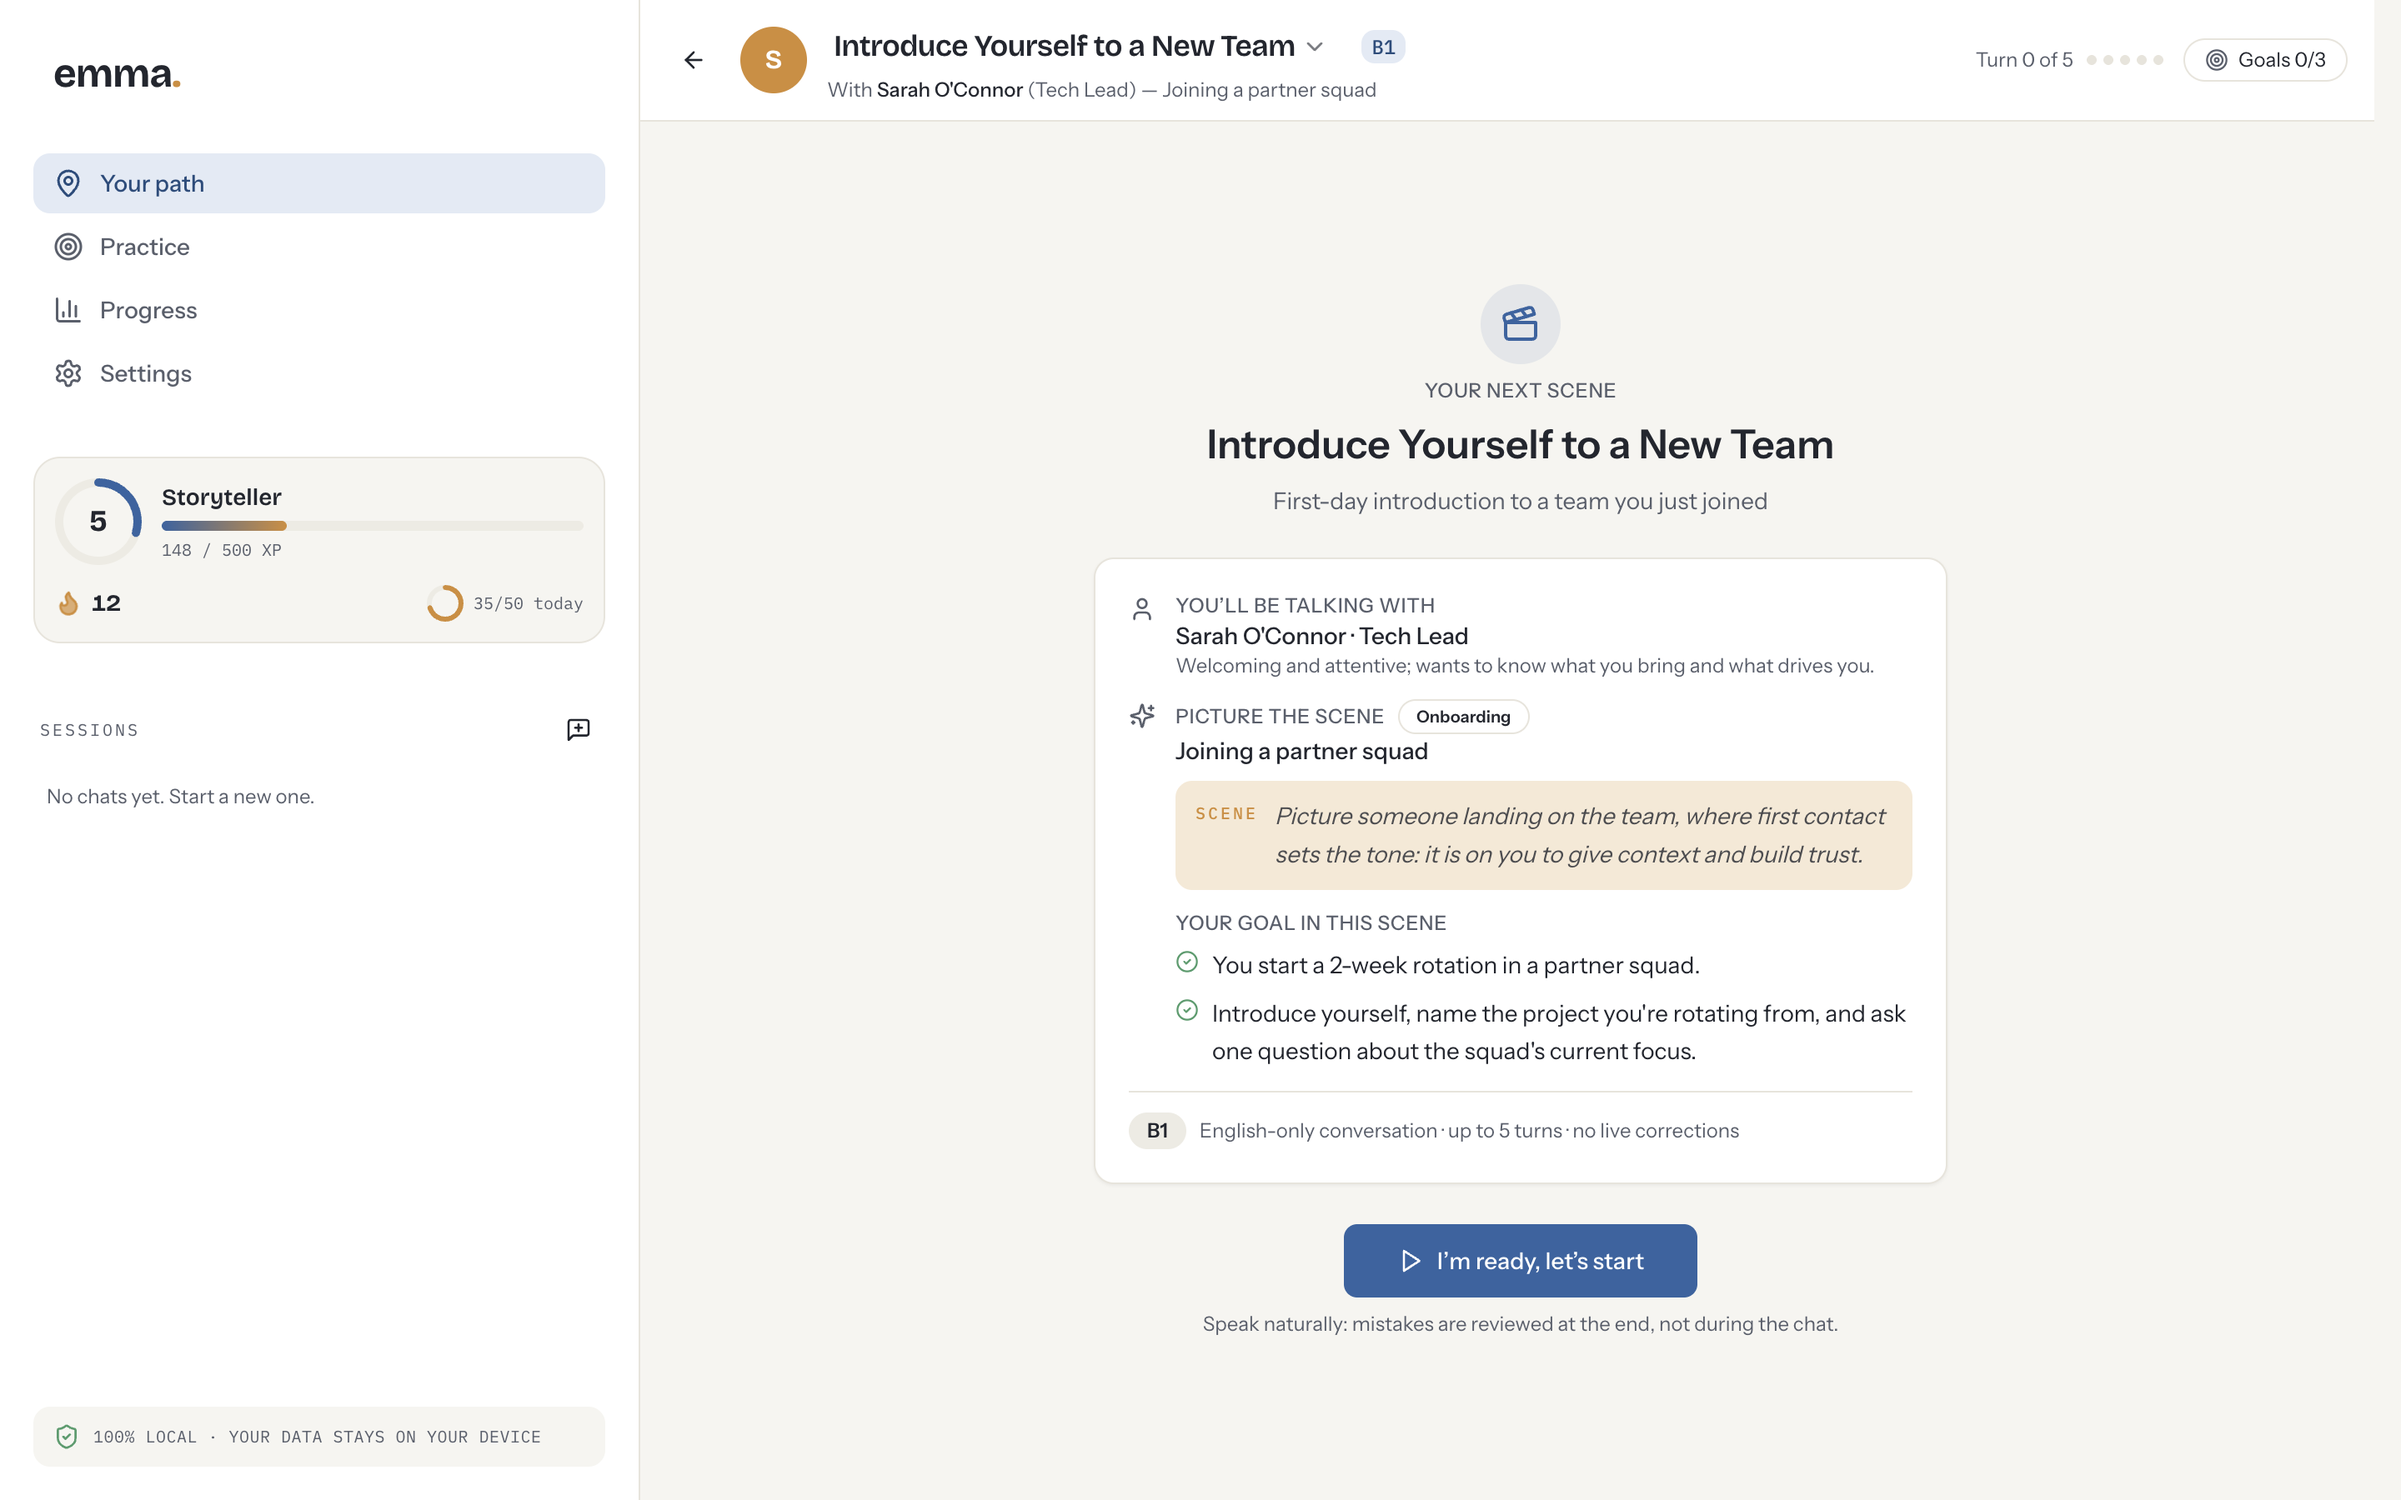
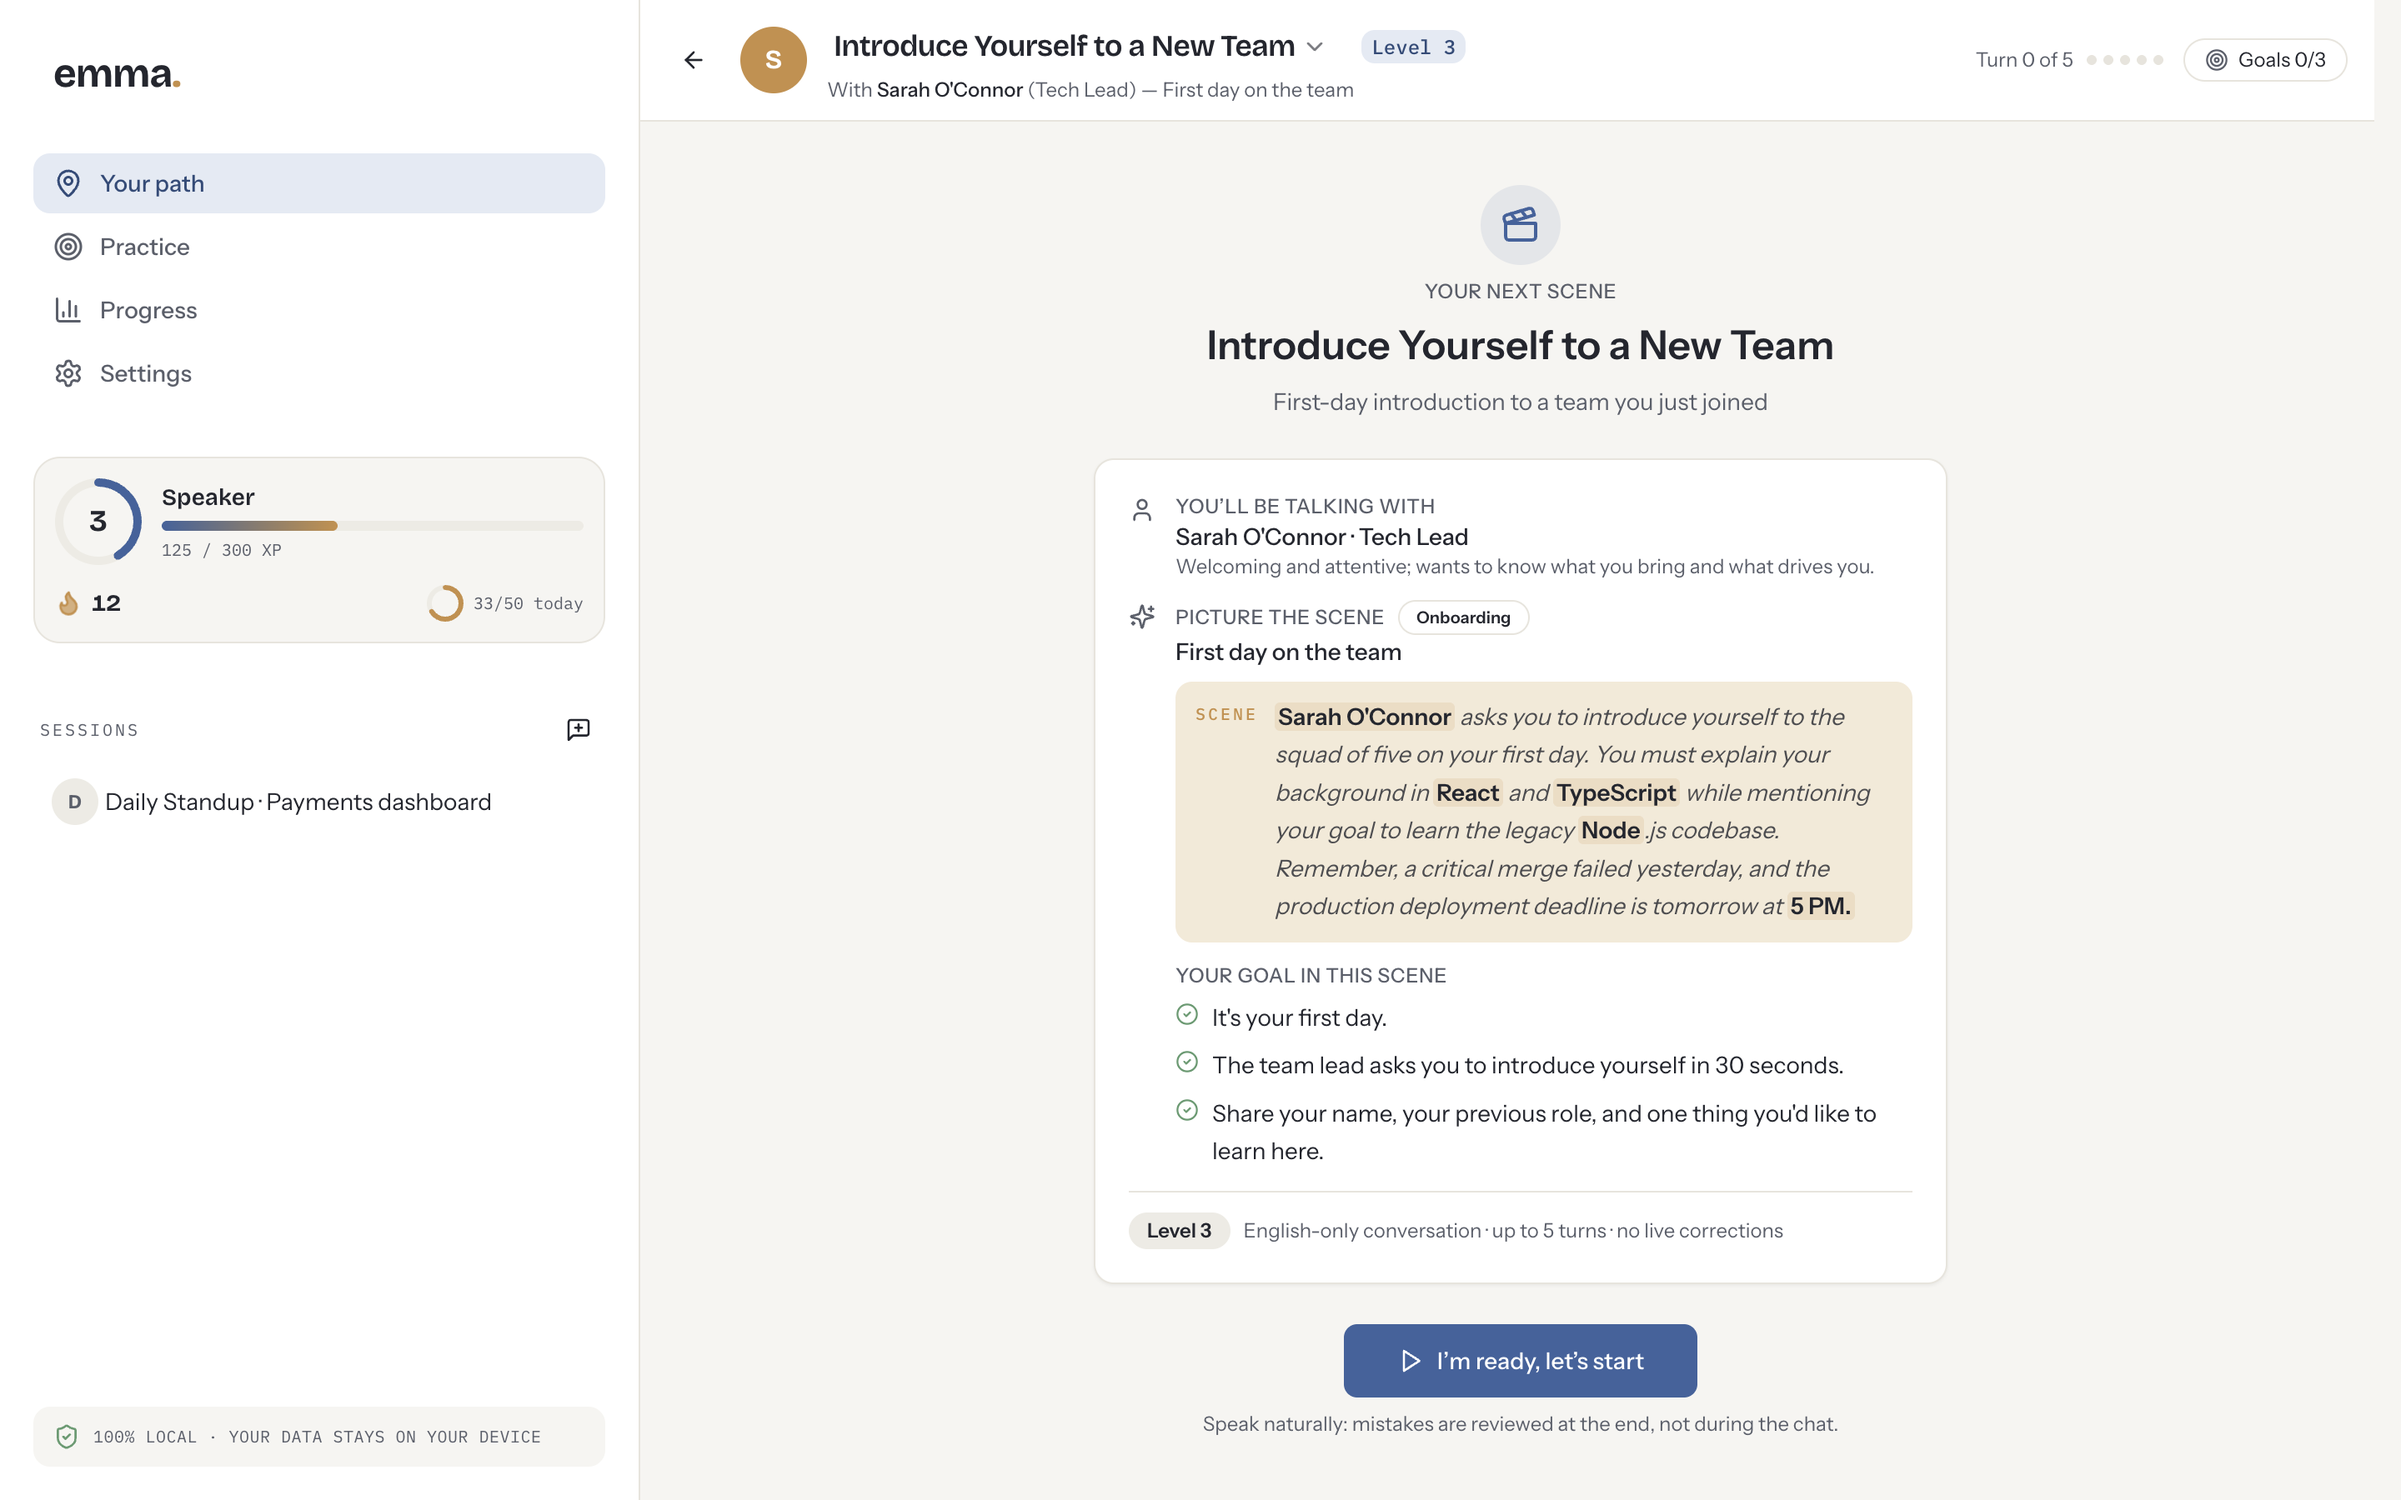
docs(site): vitrina al día con v0.9.1 — Level 1–5, frases clave y voz local
Capturas nuevas con datos de ejemplo ficticios (aprendiz «Ana»): ruta con
Level 1–5, escena con la franja SCENE resaltada, progreso, plan,
pronunciación y la muestra de voz en Protopersonas. Textos: voz neuronal
local sin nube, Teach me al lado del chat, juez de escena, cierre guiado y
la descarga del modelo de voz.

Closes #253

diff --git a/site/index.html b/site/index.html
@@ -49,7 +49,7 @@
     </div>
     <figure class="marco" style="margin:0">
       <div class="marco-cabecera"><i></i><i></i><i></i></div>
-      <img src="img/ruta.png" width="2880" height="1800" alt="Pantalla principal de EMMA: la ruta CEFR con escenas completadas, la siguiente y las bloqueadas; en la barra lateral, el nivel de jugador, la racha y la meta del día." />
+      <img src="img/ruta.png" width="2880" height="1800" alt="Pantalla principal de EMMA: la ruta del Level 3, entre Level 1 y Level 5, con cuatro escenas completadas, la siguiente y las bloqueadas; en la barra lateral, el nivel de jugador, la racha y la meta del día." />
     </figure>
   </div>
 </section>
@@ -84,7 +84,7 @@
       </article>
       <article class="paso">
         <h3>Al cerrar, el reporte</h3>
-        <p>Los errores que se anotaron durante la charla vuelven como lección, con los ejercicios y la escena de repaso que te tocan.</p>
+        <p>Los errores que se anotaron durante la charla vuelven como lección. Emma te asigna las que necesitás y te lleva a «My lessons», o te pregunta si querés repetir la escena o seguir.</p>
       </article>
     </div>
   </div>
@@ -102,13 +102,14 @@
           <h3>La escena antes de hablar</h3>
           <p>
             Con quién hablás, cómo es esa persona, qué está pasando y cuál es tu objetivo
-            —en inglés—. Entrás sabiendo qué se espera de vos.
+            —en inglés—. La franja «SCENE» resalta lo que tenés que retener: el nombre, la
+            hora, el sistema en juego. Entrás sabiendo qué se espera de vos.
           </p>
           <p class="detalle">Conversación en inglés · turnos acotados · sin correcciones en vivo.</p>
         <a class="ampliar" href="img/escena.png">Ver la captura a tamaño completo</a>
         </figcaption>
         <a class="marco" href="img/escena.png" title="Abrir la captura a tamaño completo">
-          <img src="img/escena.png" width="2880" height="1800" loading="lazy" alt="Antesala de la escena Introduce Yourself to a New Team: la Tech Lead con la que vas a hablar, la situación y tus objetivos." />
+          <img src="img/escena.png" width="2880" height="1800" loading="lazy" alt="Antesala de la escena Introduce Yourself to a New Team: la Tech Lead con la que vas a hablar, la franja SCENE con el nombre, el stack y la hora de entrega resaltados, y tus objetivos." />
         </a>
       </figure>
 
@@ -119,13 +120,13 @@
             Cada práctica suma XP: conversaciones, ejercicios, repasos, pares mínimos, retos y
             lecciones. Subís de nivel de jugador, cuidás una racha diaria, llenás la meta de
             50 XP del día y desbloqueás logros. Tu nivel de inglés sigue su propio camino: tres
-            escenas aprobadas seguidas te promueven de A1 hacia C1.
+            escenas aprobadas seguidas te suben de nivel, del Level 1 al Level 5.
           </p>
           <p class="detalle">15 logros de bronce, plata y oro · la semana en barras · 39 escenarios de trabajo.</p>
         <a class="ampliar" href="img/progreso.png">Ver la captura a tamaño completo</a>
         </figcaption>
         <a class="marco" href="img/progreso.png" title="Abrir la captura a tamaño completo">
-          <img src="img/progreso.png" width="2880" height="1800" loading="lazy" alt="Pantalla de progreso: panel Your journey con nivel de jugador 5, racha de 12 días, meta diaria, XP de la semana en barras y logros desbloqueados." />
+          <img src="img/progreso.png" width="2880" height="1800" loading="lazy" alt="Pantalla de progreso en el Level 3: panel Your journey con nivel de jugador 3, racha de 12 días, meta diaria, XP de la semana en barras y logros desbloqueados." />
         </a>
       </figure>
 
@@ -155,11 +156,27 @@
         <a class="ampliar" href="img/pronunciacion.png">Ver la captura a tamaño completo</a>
         </figcaption>
         <a class="marco" href="img/pronunciacion.png" title="Abrir la captura a tamaño completo">
-          <img src="img/pronunciacion.png" width="2880" height="1800" loading="lazy" alt="Laboratorio de pronunciación: par mínimo live/leave en una oración, respuesta correcta y el aviso +4 XP." />
+          <img src="img/pronunciacion.png" width="2880" height="1800" loading="lazy" alt="Laboratorio de pronunciación: par mínimo live/leave en la oración Can I leave the stand-up a bit early today?, respuesta correcta y el aviso +4 XP." />
         </a>
       </figure>
 
       <figure class="toma" style="margin:0">
+        <figcaption>
+          <h3>Escuchá a cada personaje</h3>
+          <p>
+            Emma y los personajes de cada escena hablan con una voz neuronal que corre en tu
+            equipo, sin nube. Cada uno tiene la suya: en Settings → Protopersonas tocás
+            «Play voice sample» y la escuchás antes de entrar a la escena.
+          </p>
+          <p class="detalle">Voz Kokoro local · empieza a hablar oración por oración · la primera vez se descarga el modelo de voz.</p>
+        <a class="ampliar" href="img/voz-protopersonas.png">Ver la captura a tamaño completo</a>
+        </figcaption>
+        <a class="marco" href="img/voz-protopersonas.png" title="Abrir la captura a tamaño completo">
+          <img src="img/voz-protopersonas.png" width="2880" height="1800" loading="lazy" alt="Ajustes, pestaña Protopersonas: la ficha de Sofía Torres, Scrum Master, con la voz Kokoro · af_kore · US English y el aviso Played with: Kokoro (on this device) tras pulsar la muestra de voz." />
+        </a>
+      </figure>
+
+      <figure class="toma invertida" style="margin:0">
         <figcaption>
           <h3>Plan de estudio y ejercicios</h3>
           <p>
@@ -174,7 +191,7 @@
         </a>
       </figure>
 
-      <figure class="toma invertida" style="margin:0">
+      <figure class="toma" style="margin:0">
         <figcaption>
           <h3>El modelo vive en tu disco</h3>
           <p>
@@ -223,8 +240,16 @@
         <p>Tus errores se capturan mientras hablás y vuelven al final como reporte, no como interrupción.</p>
       </article>
       <article class="capacidad">
-        <h3>Voz en los dos sentidos</h3>
-        <p>Emma habla y resalta la palabra que está diciendo; vos podés responder dictando en vez de escribir.</p>
+        <h3>Voz natural, en tu equipo</h3>
+        <p>Emma habla con una voz neuronal local —sin nube— y resalta la palabra que está diciendo; vos podés responder dictando. La primera vez se descarga el modelo de voz.</p>
+      </article>
+      <article class="capacidad">
+        <h3>Teach me al lado del chat</h3>
+        <p>¿No entendiste un turno? «Teach me» lo desglosa en pronunciación, gramática y respuestas posibles, en una columna junto a la conversación, sin taparla.</p>
+      </article>
+      <article class="capacidad">
+        <h3>Emma no se sale de la escena</h3>
+        <p>Cada respuesta del personaje se contrasta con los hechos de la escena: si contradice quién es, qué pasó o a qué hora, se rehace antes de llegar a vos.</p>
       </article>
       <article class="capacidad">
         <h3>Andamiaje cuando te trabás</h3>
@@ -244,7 +269,7 @@
       </article>
       <article class="capacidad">
         <h3>Una ruta que se gana</h3>
-        <p>Lo que Emma te deja al cerrar una escena se practica antes de abrir la siguiente: la ruta avanza cuando cerrás tus lecciones.</p>
+        <p>Cinco niveles, del Level 1 al Level 5. Lo que Emma te deja al cerrar una escena se practica antes de abrir la siguiente: la ruta avanza cuando cerrás tus lecciones.</p>
       </article>
       <article class="capacidad">
         <h3>Continuidad entre sesiones</h3>
@@ -281,7 +306,8 @@
       Los botones llevan a la última versión publicada.
     </p>
     <p class="requisitos">
-      Al abrirla por primera vez, EMMA descarga el modelo local (entre 2 y 3 GB). Necesitás una
+      Al abrirla por primera vez, EMMA descarga el modelo local (entre 2 y 3 GB), y la primera
+      vez que Emma habla, el modelo de voz (unos 326 MB); después la voz funciona sin conexión. Necesitás una
       GPU con WebGPU y unos 8 GB de RAM para el modelo liviano, 16 GB para el recomendado.
       Todavía no hay certificado de desarrollador, así que la primera apertura pide un permiso
       extra: en macOS, clic derecho sobre la app y «Abrir»; en Windows, «Más información» y
